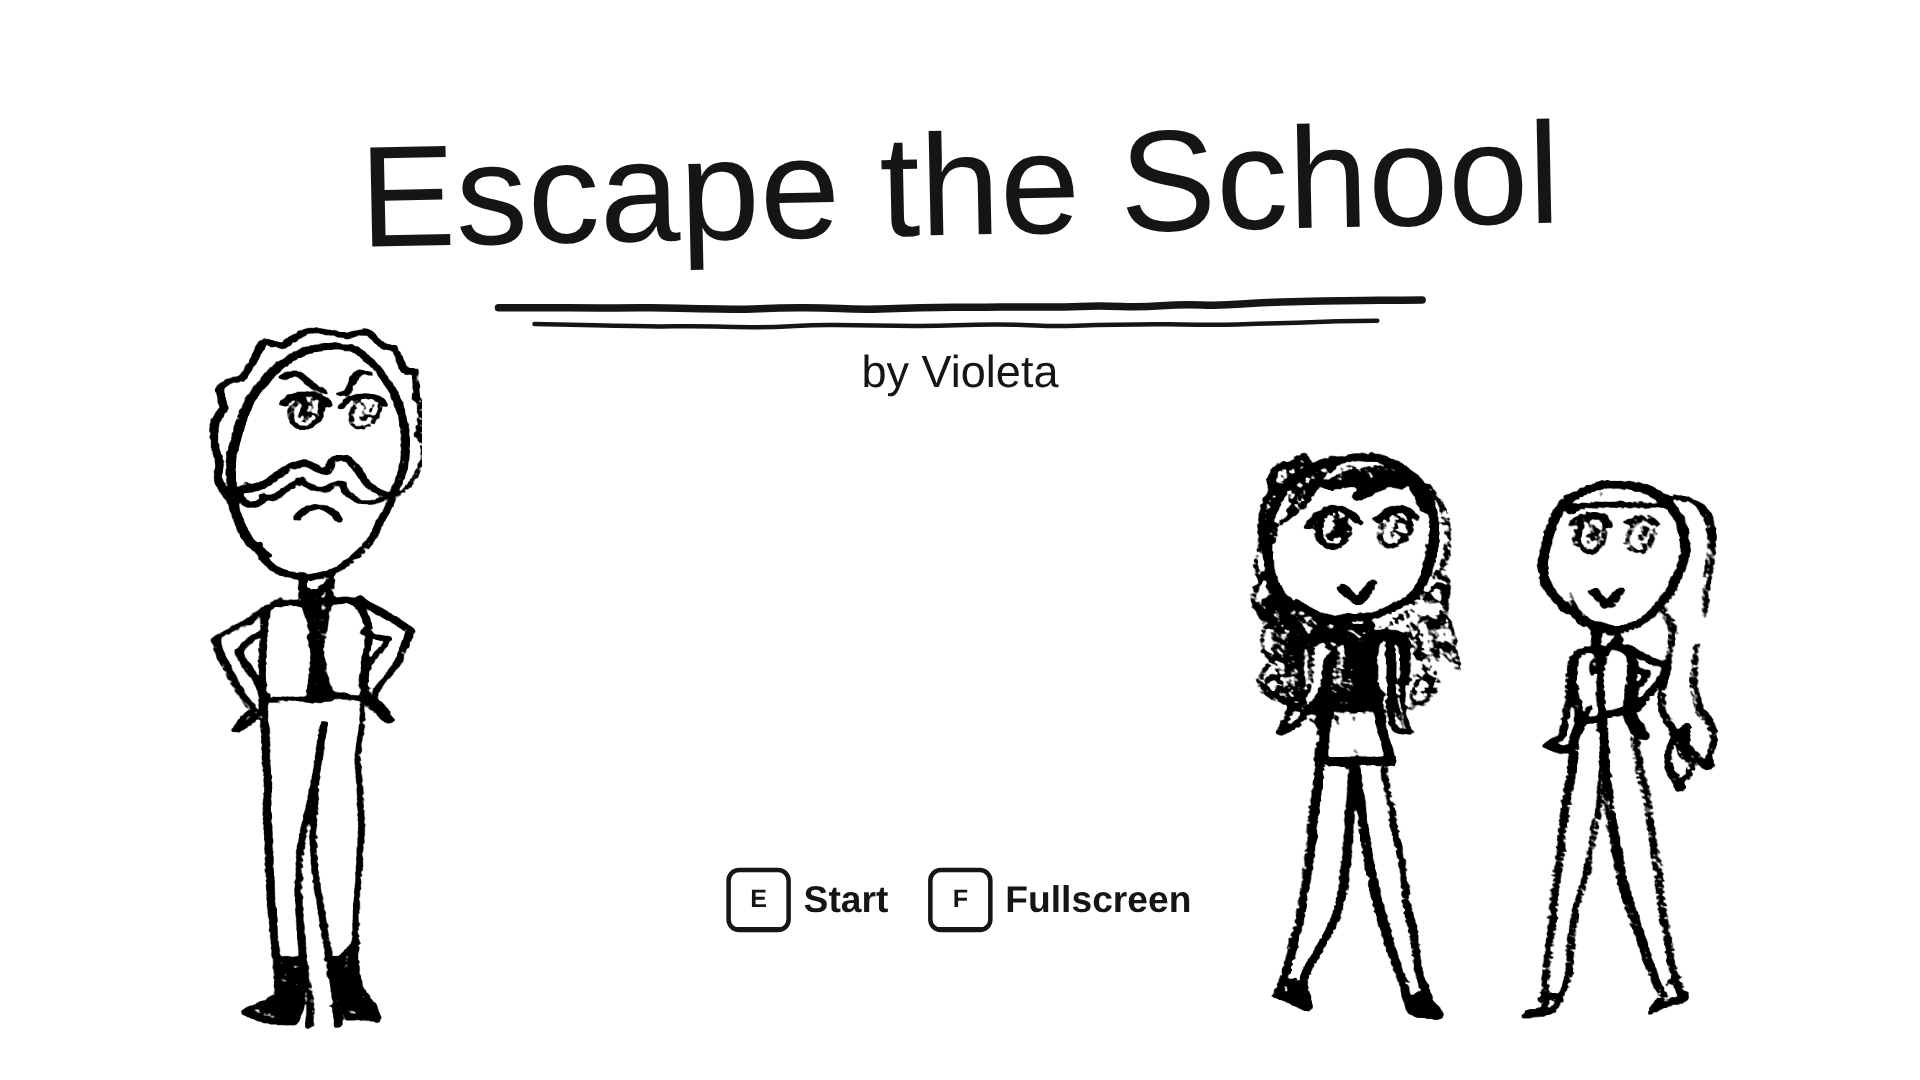
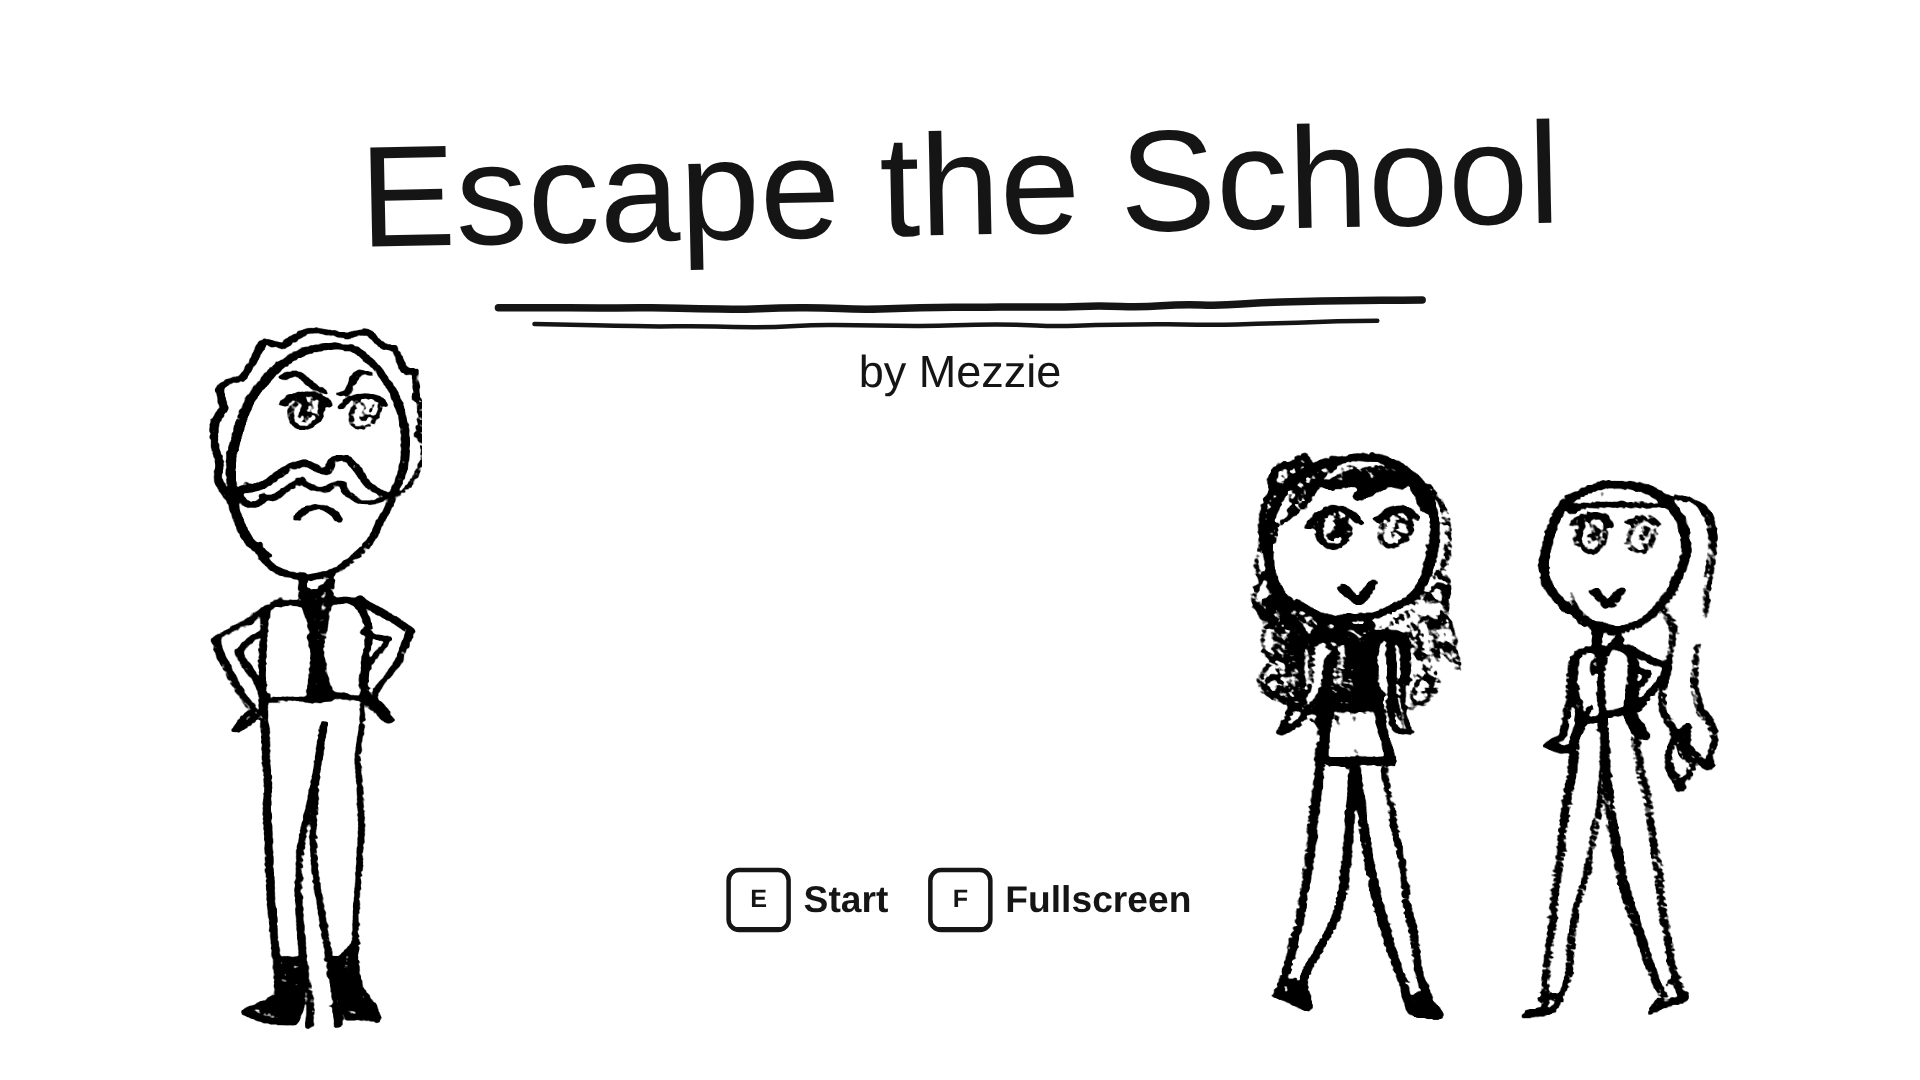
Escape the School is Mezzie's game, not Violeta's
Claude-Session: https://claude.ai/code/session_01GjirsLtLZkdPo1bkjNK1fu

diff --git a/escape-the-school/game.js b/escape-the-school/game.js
@@ -1,7 +1,7 @@
 // Escape the School: pick a girl, go to class, and try to sneak out while the
 // teacher writes 1000 tests on the chalkboard.
 // Plain canvas 2D, no libraries. The characters, cart, lockers and door are cut
-// out of Violeta's drawing (assets/); the hallway and classroom are drawn in
+// out of Mezzie's drawing (assets/); the hallway and classroom are drawn in
 // code with wobbly pencil lines to match.
 (() => {
   'use strict';
@@ -508,7 +508,7 @@
     drawSprite(c, IMG.teacher, 210, 690, 470, { bob: Math.abs(Math.sin(t * 1.3)) * 3 });
     drawSprite(c, IMG.girl1, 900, 680, 380, { tilt: Math.sin(t * 2) * 0.02 });
     drawSprite(c, IMG.girl2, 1080, 680, 360, { tilt: Math.sin(t * 2 + 1) * 0.02 });
-    c.font = font(30, 'normal'); c.fillText('by Violeta', 640, 250);
+    c.font = font(30, 'normal'); c.fillText('by Mezzie', 640, 250);
     c.restore();
     drawPrompts(c, [['confirm', 'Start'], ['fullscreen', 'Fullscreen']], W / 2, 600, 'center', 40);
   }

diff --git a/escape-the-school/README.md b/escape-the-school/README.md
@@ -1,6 +1,6 @@
 # Escape the School
 
-Violeta's game. Pick one of the two girls, walk down the hallway and into Room 9, and sit in the open seat next to the only other student. The teacher announces 1000 tests and turns to write them on the chalkboard, the other student falls asleep, and the teacher's not looking... escape the school!
+Mezzie's game. Pick one of the two girls, walk down the hallway and into Room 9, and sit in the open seat next to the only other student. The teacher announces 1000 tests and turns to write them on the chalkboard, the other student falls asleep, and the teacher's not looking... escape the school!
 
 - **The classroom** is seen from above, like Zelda. You always get caught just before the door. Say "Sorry, sir, I'll sit back down" and you can try again, or say "I'm escaping!" to run for it.
 - **The hallway chase** is side on. The teacher comes after you (he's slower than you), and the janitor is mopping between you and the hiding spots. He looks up every few seconds, with a "?" first as a warning: if you're in front of him and not hiding, he sees you. Get past him and hide in his cart or a locker, and the teacher walks right past.
@@ -24,7 +24,7 @@ Hold Select + Start to go back to the launcher.
 
 ## Art
 
-The characters and props are cut out of Violeta's drawing (still black and white, to be colored in later): the two girls, the teacher (from the front, and from behind writing on the board), the janitor, the sleeping student at her desk, the janitor's cart, the lockers and the classroom door. Each is a PNG in `assets/` and can be swapped for a colored version with the same name.
+The characters and props are cut out of Mezzie's drawing (still black and white, to be colored in later): the two girls, the teacher (from the front, and from behind writing on the board), the janitor, the sleeping student at her desk, the janitor's cart, the lockers and the classroom door. Each is a PNG in `assets/` and can be swapped for a colored version with the same name.
 
 The hallway, the classroom, the desks and the janitor's mop are drawn in code with wobbly pencil lines (the `Sketch` class in `game.js`) to match her style.
 
